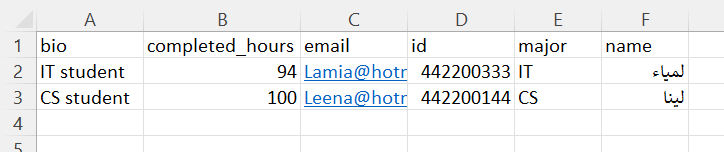
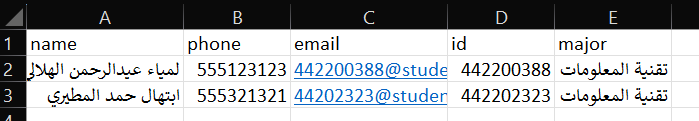
error messages

diff --git a/webPages/shared.css b/webPages/shared.css
@@ -385,3 +385,33 @@ section .details span {
 .custom-file-upload input[type="file"] {
     display: none;
 }
+
+.error-message {
+    background-color: #fce4e4;
+    border: 1px solid #fcc2c3;
+    float: left;
+  }
+
+  .error-text {
+    color: #cc0033;
+    font-family: Helvetica, Arial, sans-serif;
+    font-size: 15px;
+    font-weight: bold;
+    line-height: 20px;
+    text-shadow: 1px 1px rgba(250,250,250,.3);
+  }
+
+  .success-message{
+    background-color: #D1FFBD;
+    border: 1px solid #abf48c;
+    float: left;
+  }
+
+  .success-text {
+    color: #00cc0a;
+    font-family: Helvetica, Arial, sans-serif;
+    font-size: 15px;
+    font-weight: bold;
+    line-height: 20px;
+    text-shadow: 1px 1px rgba(250,250,250,.3);
+  }

diff --git a/webPages/addStudent.php b/webPages/addStudent.php
@@ -69,7 +69,7 @@ $firestore = new FirestoreClient([
                 <div class="wrap_stu">
                     <header id="stu_header">تحميل الملفات</header>
                     <br>
-                    <h4> صيغة الملف المطلوبة: </h4>
+                    <h4> صياغة الملف المطلوبة: </h4>
                     <img src="images/stdsample.png" alt="studentsSample">
                     <br>
                     <form action="" method="post" enctype="multipart/form-data" id="stu_file">
@@ -84,7 +84,17 @@ $firestore = new FirestoreClient([
                         <div id="uploaded"></div>
                         <br>
                         <input type="submit" value="أضف +" class="custom-file-upload">
-                        <i class="fas fa-cloud-upload-alt"></i>
+                        <br>
+
+                        <div class="error-message" id="show" >
+                            <span class="error-text" id="errormessage">
+                            </span>
+                        </div>
+                        <div class="success-message" id="show1" >
+                            <span class="success-text" id="successmessage">
+                            </span>
+                        </div>
+
 
                     </form>
                     <script src="https://code.jquery.com/jquery-3.6.0.min.js"></script>
@@ -117,10 +127,18 @@ $firestore = new FirestoreClient([
                             if ($fileType === 'csv') {
                                 if (move_uploaded_file($_FILES['file']['tmp_name'], $uploadedFile)) {
                                 } else {
-                                    echo 'هناك خطأ في تحميل الملف';
+                                    ?>
+                                    <script>
+                                       document.getElementById("errormessage").innerHTML = "<p>" + '!هناك خطأ في تحميل الملف' + "</p>";
+                                    </script>
+                                    <?php
                                 }
                             } else {
-                                echo 'صيغة الملف غير مدعومة! الرجاء إعادة المحاولة وإضافة ملف csv';
+                                ?>
+                                    <script>
+                                       document.getElementById("errormessage").innerHTML = "<p>" + '!صيغة الملف غير مدعومة! الرجاء إعادة المحاولة وإضافة ملف csv' + "</p>";
+                                    </script>
+                                <?php
                             }
                         }
                     } else {
@@ -139,7 +157,7 @@ $firestore = new FirestoreClient([
                             // check if file formula is correct by counting number of columns
                             $firstLine = fgets($std);
                             $columnsCount = count(explode(',', $firstLine));
-                            if ($columnsCount == 6) {
+                            if ($columnsCount == 5 && $headers[4] == "major") {
                                 //to remove hidden Byte Order Mark (BOM) and white spaces 
                                 $headers
                                     = preg_replace("/\xEF\xBB\xBF/", "", $headers);
@@ -155,12 +173,13 @@ $firestore = new FirestoreClient([
                                     // Insert data into Firestore with auto-generated document ID
                                     $collection = $firestore->collection('students');
 
-                                    if (isset($data[2])) {
+                                    if (isset($data[2]) && isset($data[3])) {
                                         // $data[$columnIndex] contains the value of the desired column
                                         $columnValue = $data[2];
+                                        $columnValue1 = $data[3];
 
                                         //check if a user already exists by email
-                                        if (!$f->checkDocumentExists('email', $columnValue)) {
+                                        if ((!$f->checkDocumentExists('email', $columnValue)) && !$f->checkDocumentExists('id', $columnValue1)) {
 
                                             $password = randomPassword();
                                             $userProperties = [
@@ -177,8 +196,6 @@ $firestore = new FirestoreClient([
                                                 sendEmail($rowData['email'], $password);
                                                 $added = 1;
                                             } catch (Kreait\Firebase\Exception\Auth\EmailExists $e) {
-                                                echo "لم تتم الإضافة, جميع الطالبات مضافات مسبقاً";
-                                                exit;
                                             }
                                         }
                                     }
@@ -187,14 +204,28 @@ $firestore = new FirestoreClient([
                                 $added = 2;
                             }
 
+                            ?>
 
-                            if ($added == 0) {
-                                echo "لم تتم الإضافة, جميع الطالبات مضافات مسبقاً";
-                            } else if ($added == 1) {
-                                echo 'تمت الإضافة بنجاح';
-                            } else if ($added == 2) {
-                                echo "صياغة الملف خاطئة, الرجاء التقيد بالصياغة في الأعلى";
-                            }
+                            <script>
+                                var messageFromPHP1 = "<?php 
+                                if ($added == 1) {
+                                    echo '!تمت الإضافة بنجاح';
+                                 } else{
+                                    echo '';}?>";
+                                 document.getElementById("successmessage").innerHTML = "<p>" + messageFromPHP1 + "</p>";
+
+
+                                var messageFromPHP = "<?php
+                                   if ($added == 0) {
+                                      echo '!لم تتم الإضافة, جميع الطالبات مضافات مسبقاً';
+                                   } else if ($added == 2) {
+                                      echo '!صياغة الملف خاطئة, الرجاء التقيد بالصياغة في الأعلى';
+                                   }?>";
+                                document.getElementById("errormessage").innerHTML = "<p>" + messageFromPHP + "</p>";
+                            </script>
+                            
+                        <?php
+
 
                             fclose($handle); // Close the CSV file
                         }

diff --git a/webPages/addAdvisors.php b/webPages/addAdvisors.php
@@ -69,7 +69,7 @@ $firestore = new FirestoreClient([
                 <div class="wrap_stu">
                     <header id="stu_header">تحميل الملفات</header>
                     <br>
-                    <h4> صيغة الملف المطلوبة: </h4>
+                    <h4> صياغة الملف المطلوبة: </h4>
                     <img src="images/advsample.png" alt="advisorsSample">
                     <br>
                     <form action="" method="post" enctype="multipart/form-data" id="stu_file">
@@ -84,7 +84,15 @@ $firestore = new FirestoreClient([
                         <div id="uploaded"></div>
                         <br>
                         <input type="submit" value="أضف +" class="custom-file-upload">
-                        <i class="fas fa-cloud-upload-alt"></i>
+                        <br>
+                        <div class="error-message" id="show" >
+                            <span class="error-text" id="errormessage">
+                            </span>
+                        </div>
+                        <div class="success-message" id="show1" >
+                            <span class="success-text" id="successmessage">
+                            </span>
+                        </div>
 
                     </form>
                     <script src="https://code.jquery.com/jquery-3.6.0.min.js"></script>
@@ -117,10 +125,18 @@ $firestore = new FirestoreClient([
                             if ($fileType === 'csv') {
                                 if (move_uploaded_file($_FILES['file']['tmp_name'], $uploadedFile)) {
                                 } else {
-                                    echo 'هناك خطأ في تحميل الملف';
+                                    ?>
+                                    <script>
+                                       document.getElementById("errormessage").innerHTML = "<p>" + '!هناك خطأ في تحميل الملف' + "</p>";
+                                    </script>
+                                    <?php
                                 }
                             } else {
-                                echo 'صيغة الملف غير مدعومة! الرجاء إعادة المحاولة وإضافة ملف csv';
+                                ?>
+                                    <script>
+                                       document.getElementById("errormessage").innerHTML = "<p>" + '!صيغة الملف غير مدعومة! الرجاء إعادة المحاولة وإضافة ملف csv' + "</p>";
+                                    </script>
+                                <?php
                             }
                         }
                     } else {
@@ -139,7 +155,7 @@ $firestore = new FirestoreClient([
                             // check if file formula is correct by counting number of columns
                             $firstLine = fgets($adv);
                             $columnsCount = count(explode(',', $firstLine));
-                            if ($columnsCount == 5) {
+                            if ($columnsCount == 5 && $headers[1] == "department") {
                                 //to remove BOM and white spaces 
                                 $headers
                                     = preg_replace("/\xEF\xBB\xBF/", "", $headers);
@@ -175,8 +191,6 @@ $firestore = new FirestoreClient([
                                                 sendEmail($rowData['email'], $password);
                                                 $added = 1;
                                             } catch (Kreait\Firebase\Exception\Auth\EmailExists $e) {
-                                                echo "لم تتم الإضافة, جميع المرشدات مضافات مسبقاً";
-                                                exit;
                                             }
                                         }
                                     }
@@ -186,13 +200,27 @@ $firestore = new FirestoreClient([
                             }
 
 
-                            if ($added == 0) {
-                                echo "لم تتم الإضافة, جميع المرشدات مضافات مسبقاً";
-                            } else if ($added == 1) {
-                                echo 'تمت الإضافة بنجاح';
-                            } else if ($added == 2) {
-                                echo "صياغة الملف خاطئة, الرجاء التقيد بالصياغة في الأعلى";
-                            }
+                            ?>
+
+                            <script>
+                                var messageFromPHP1 = "<?php 
+                                if ($added == 1) {
+                                    echo '!تمت الإضافة بنجاح';
+                                 } else{
+                                    echo '';}?>";
+                                 document.getElementById("successmessage").innerHTML = "<p>" + messageFromPHP1 + "</p>";
+
+
+                                var messageFromPHP = "<?php
+                                   if ($added == 0) {
+                                      echo '!لم تتم الإضافة, جميع المرشدات مضافات مسبقاً';
+                                   } else if ($added == 2) {
+                                      echo '!صياغة الملف خاطئة, الرجاء التقيد بالصياغة في الأعلى';
+                                   }?>";
+                                document.getElementById("errormessage").innerHTML = "<p>" + messageFromPHP + "</p>";
+                            </script>
+                            
+                        <?php
 
                             fclose($handle); // Close the CSV file
                         }

diff --git a/webPages/students.php b/webPages/students.php
@@ -64,7 +64,7 @@ $students = $collection->getAllDocuments();
                         </th>
 
                         <th>
-                            عدد الساعات المكتملة
+                            رقم الجوال
                         </th>
                         <th>
                             المرشدة الأكاديمية
@@ -82,7 +82,7 @@ $students = $collection->getAllDocuments();
                         echo '<td>' . $student['id'] . "</td>";
                         echo '<td class="stu_email">' . $student['email'] . "</td>";
                         echo '<td>' . $student['major'] . "</td>";
-                        echo '<td>' . $student['completed_hours'] . "</td>";
+                        echo '<td>' . $student['phone'] . "</td>";
                         echo '<td>' . "</td>";
                         echo "</tr>";
                     }

diff --git a/webPages/advisors.php b/webPages/advisors.php
@@ -53,6 +53,9 @@ $advisors = $collection->getAllDocuments();
                         <th>
                             القسم
                         </th>
+                        <th>
+                            رقم الجوال
+                        </th>
                     </tr>
 
                     <!-- retrive from DB all advisors info -->
@@ -62,6 +65,7 @@ $advisors = $collection->getAllDocuments();
                         echo '<td>' . $advisor['name'] . "</td>";
                         echo '<td calss="stu_email">' . $advisor['email'] . "</td>";
                         echo '<td>' . $advisor['department'] . "</td>";
+                        echo '<td>' . $advisor['phone'] . "</td>";
                         echo '</tr>';
                     }
 
